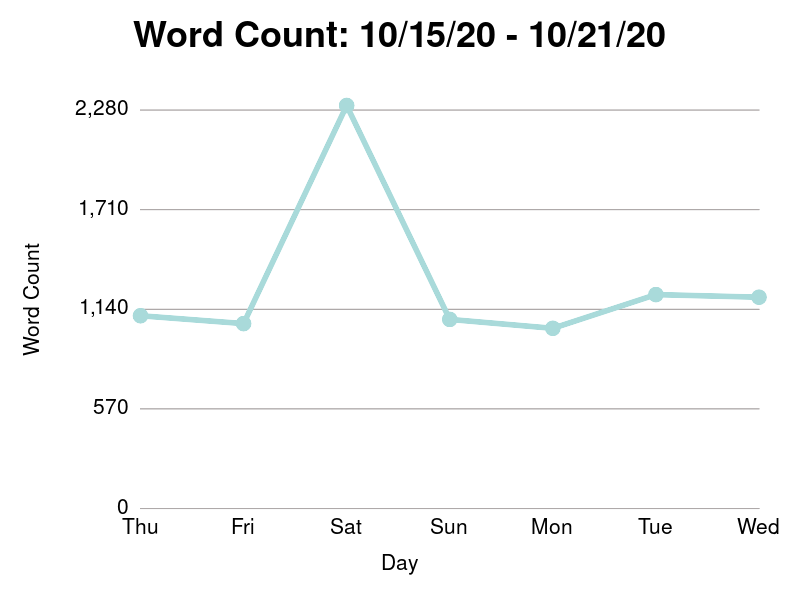
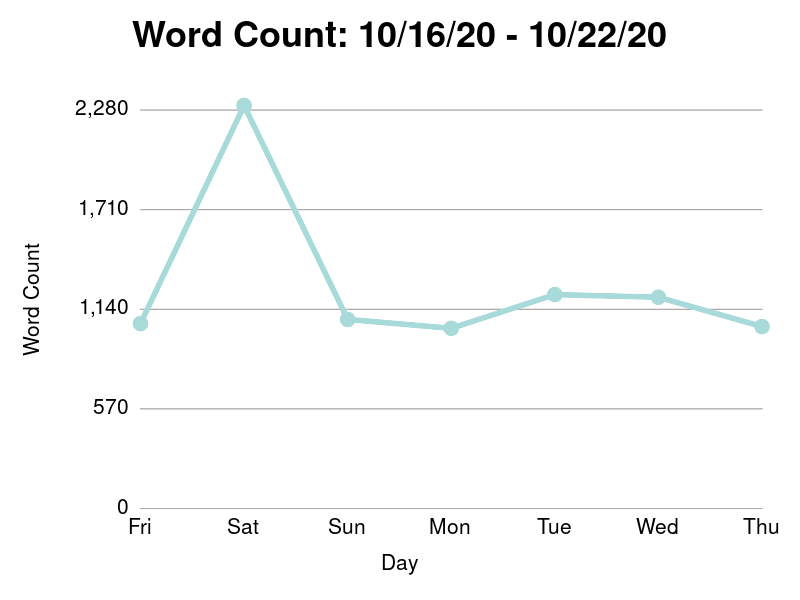
Post

diff --git a/entries/2020-10-22.md b/entries/2020-10-22.md
@@ -1,0 +1,125 @@
+---
+title: outages, quarantine boy, and my octopus teacher
+---
+
+Dear Journal,
+
+_Goede morgen, mensen!_ Happy Thursday.  Surrounded by picturesque
+coffee shop weather, coming to you almost a full hour and a half
+behind schedule, I'm just happy to be here.
+
+No, my alarm clock isn't broken.  I didn't accidentally oversleep.  I
+didn't just decide to pull a Peter Gibbons _Office Space_ maneuver and
+spontaneously stick it to the man.  Last night around 10 pm, my phone
+alerted me to some unhappy servers in a production deployment of our
+service.  With a deep, weary sigh, I topped off my glass of wine and
+trudged up the stairs, signing onto my computer expecting the worst.
+
+It wasn't too bad.  Just an AWS outage in a single zone.  For the
+majority of our services, this just meant a little bit of scrambling
+to provision some extra capacity - enough to weather through the
+outage.  The whole thing started to wind down a little after 11:15 PM.
+I slinked away from my computer and trudged down the stairs, finding
+Marissa in the kitchen.  She had just finished doing the dishes,
+wiping down the microwave and stove, and cleaning out the fridge.
+
+"You did my chores!" I said, a sense of relief washing over me.
+
+"It was the least I could do," she said.  "I didn't know how bad that
+one would be."
+
+"It wasn't a terrible outage," I said.  "Just had to quick slap
+together an extra server and stare at the graphs for a while," I said.
+
+After incidents, we're encouraged to take some time the next day to
+re-cooperate.  Honestly, I wasn't planning on it.  Running a single
+command from my computer and staring at a dashboard for a little over
+an hour hardly felt like work, but my body disagreed.  I woke up at 4
+AM last night to a nasty back spasm, and if it weren't for the extra
+sleep padding my morning, I would have been a cold zombie at the
+computer today.
+
+The name of the game today is moderation.  Lots of stretching, lots of
+water, lots of breaks to stand up and walk around.  Anything to
+appease the angry little monkey fist that is wringing at my back just
+behind my rib cage.  I hate the back spasms, but they do have a funny
+way of moderating how much time I spend on the computer.
+
+_Sip_.  So good morning, everyone.  How is your Thursday going, and
+how was your Wednesday?  We had a nice day yesterday.  After the
+regular work day, I made my way into the kitchen to prepare vegetable
+soup.  Marissa and Rodney headed outside to paint the foundation of
+the house.  Gingerly stepping over the rocky ground in my bare feet, I
+wandered along the side path to check on their progress.
+
+"Oh I like it," I said, staring at the fresh band of color stretching
+halfway down the side of our house.  "I see why you're doing this now.
+What you're painting over doesn't even look like a color."
+
+The spot of the house Marissa was painting over looked like it was
+left their by accident.  A gross, rusty green reddish tan color, like
+the wall of a forgotten cave or something that just washed up from the
+ocean.  The dark grey color Marissa left with each swipe her roller
+was aesthetically pleasing, a welcomed change.
+
+Meanwhile, Rodney occupied his time with two outdoor activities.  He
+ran around the yard in a wide circle with his mouth open, and when he
+got tired, he'd return to his little hole he was digging in the grass,
+stabbing at it with his plastic bit to his toy power drill.  He was
+wearing his stark bright red, white, and blue Captain America hoodie
+with a spider-man beanie pulled tight over his scalp.  Something about
+his brightly colored garb, the way he was wildly running around the
+yard, and how his pale hairless forehead reflected the setting sun
+compelled us to teasingly call him _quarantine boy_.
+
+{% include figure.html filename="2020-10-22-quarantine-boy.jpg" %}
+
+"Thanks for keeping an eye on _quarantine boy_," I said.  "Want me to
+take him inside?"
+
+"Oh no problem," said Marissa.  "Not quite yet.  I can put up with him
+a little longer, but he's starting to lose interest."
+
+Quarantine boy followed me into the house anyway, and I resumed making
+vegetable soup with broiled cheese bread.  To make up for our scant
+cheese drawer, I resorted to just ripping up sandwich slices of
+provolone.  To distract from the clashing flavors, I just added a few
+cracks of pepper and shakes of thyme.  Not bad for some cheep sandwich
+cheese and a stale Hy-Vee baguette.
+
+{% include figure.html filename="2020-10-22-cheese-bread.jpg" %}
+
+After dinner, we made our way upstairs for the Wheaton college Zoom
+session.  Our wandering conversation led us to movie Netflix
+recommendations.  Dr. Ben was particular fired up about a documentary
+called _My Octopus Teacher_.
+
+"It's about this film maker in South Africa who befriends an octopus
+while snorkeling," he explained.  "He basically falls in love with the
+octopus.  It's weirdly intimate.  Almost _erotic_."
+
+"You're exaggerating," said Beth, cutting him off with a gentle elbow
+to the rib.  We laughed.
+
+"OK," I said.  "Marissa and I will watch it.  I'll be the judge of
+what's going on with this guy and his octopus."
+
+After the work incident, we only had enough time to watch about twenty
+minutes, but the breath taking photography and thoughtful story
+telling had us hooked.  In the film, the writer mourns how he fumbled
+with his camera lens and scared the octopus away.  He spends a week
+tracking the animal to its new den, and when the two are finally
+reunited...
+
+"OK, I'm just going to say it," I laughed, pausing the movie.  "This
+is romantic and beautiful.  I see what Ben means now.  It's kind of
+beautiful how he had to pursue his friend and prove his commitment,
+and she immediately came out of the den, like she missed him.  Like
+she regretted fleeing."
+
+I'm looking forward to finishing _My Octopus Teacher_.  I promise,
+it's not as weird as we're making it seem.  Give it a watch, and
+you'll see what I mean.
+
+Thanks for stopping by today.  Don't forget to stand up straight,
+stretch, and take breaks from the computer.
